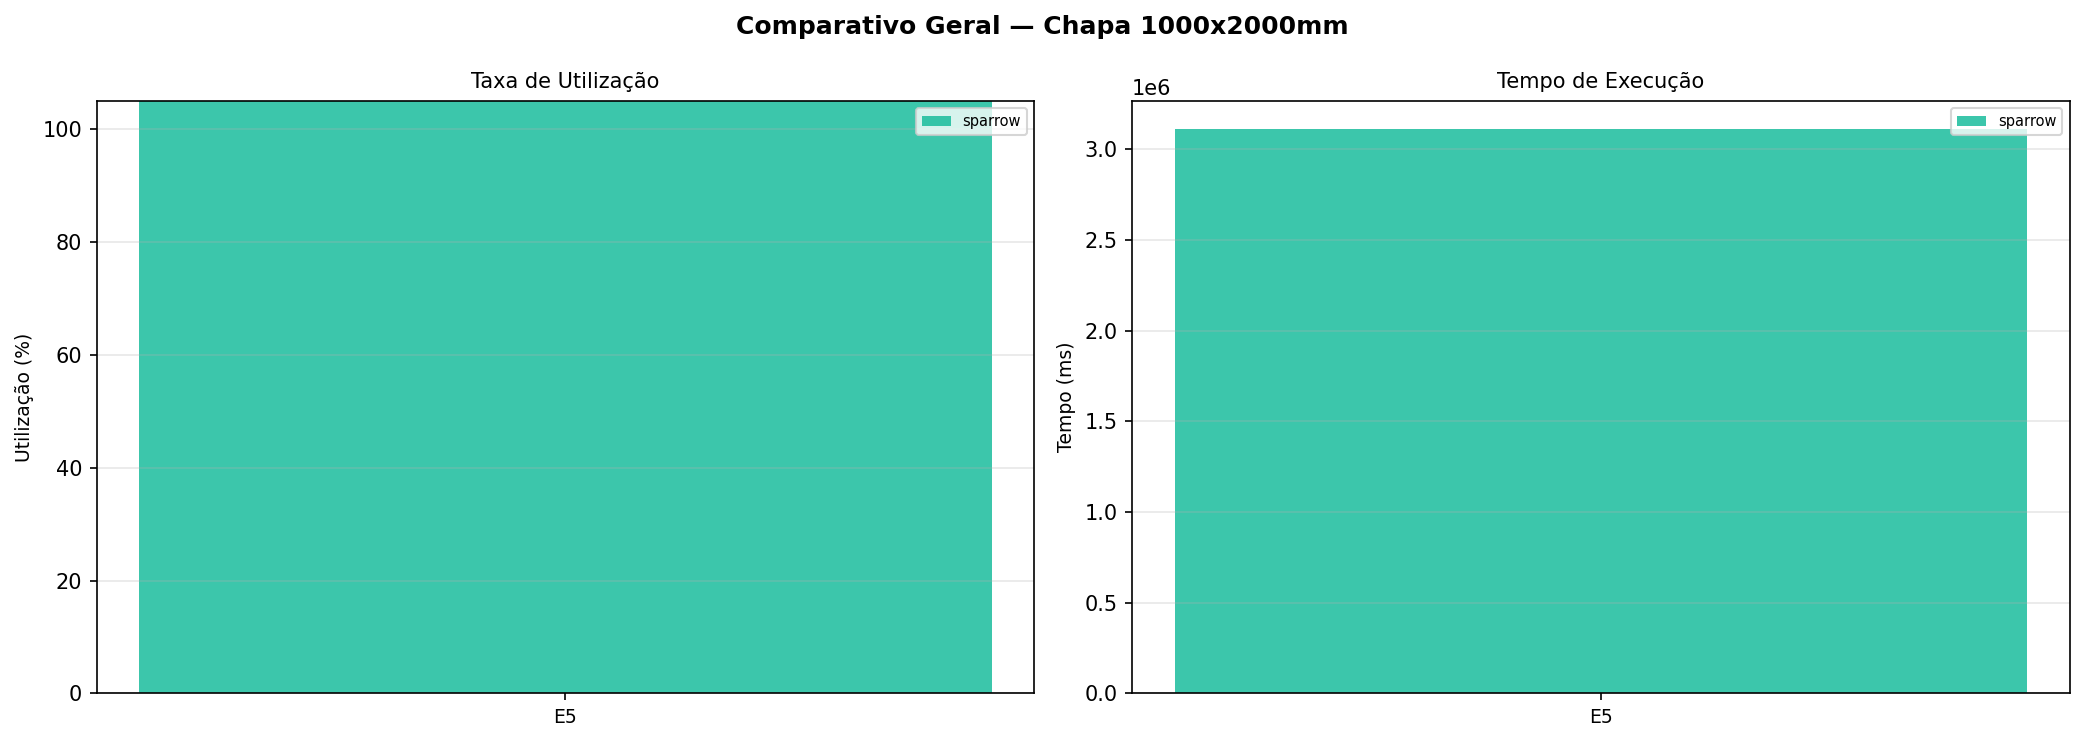
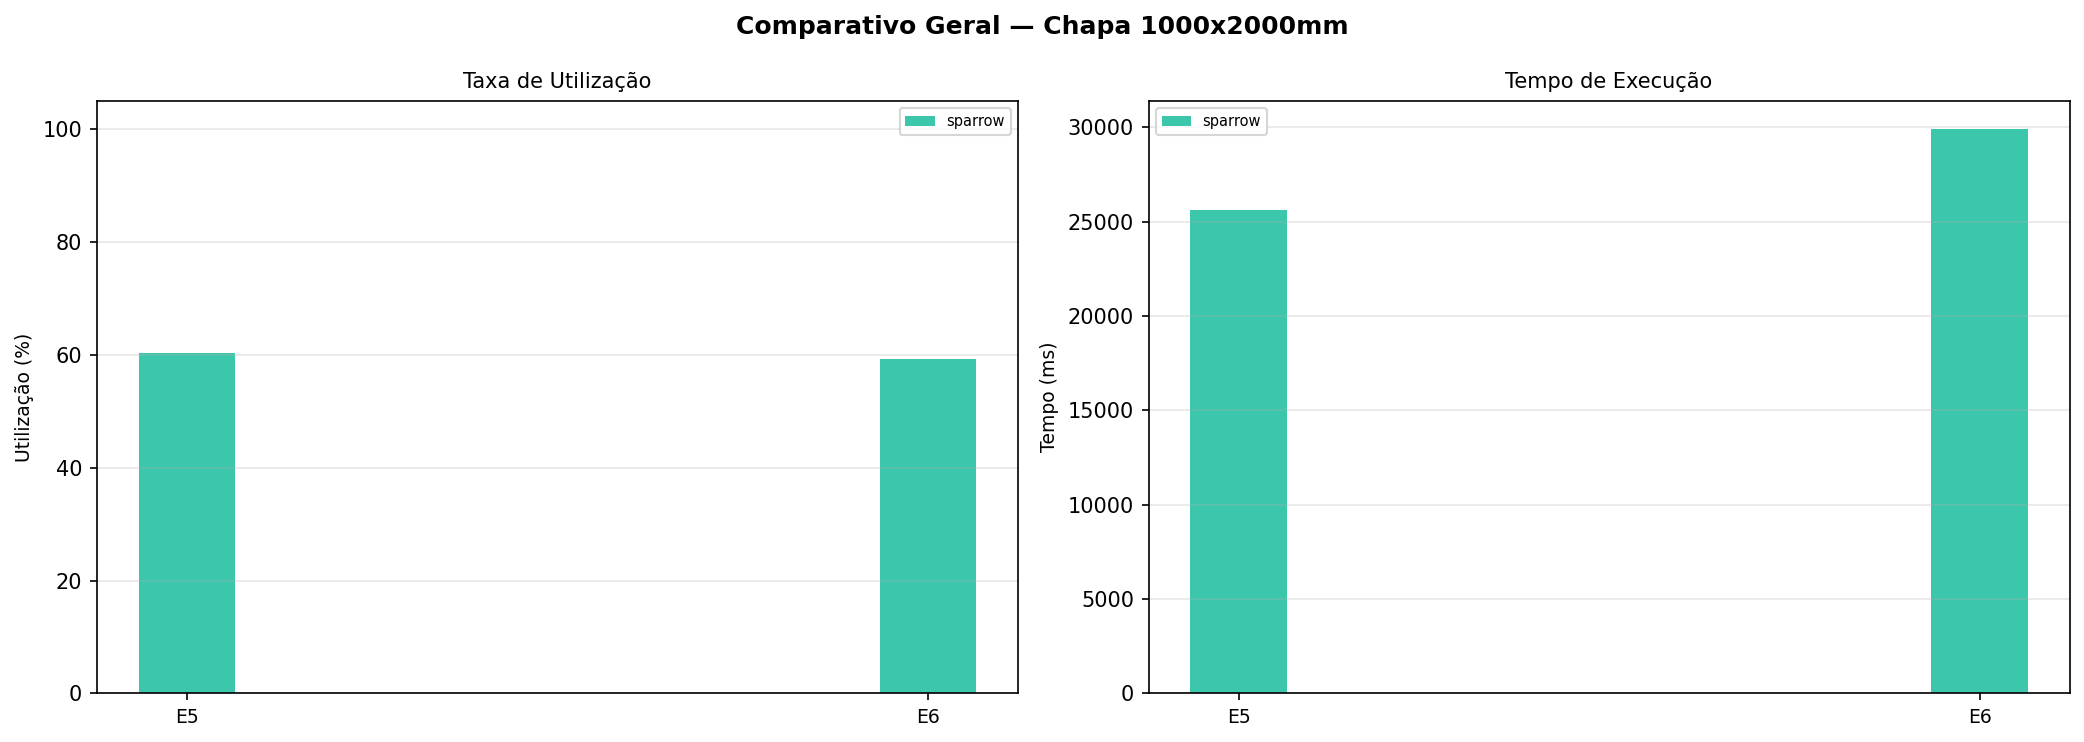
8

diff --git a/caldeiraria_experimentos/algoritmos/sparrow.py b/caldeiraria_experimentos/algoritmos/sparrow.py
@@ -144,10 +144,13 @@ def run(pieces: list[dict], W: float, L_max: Optional[float] = None,
             if not sheet:
                 sheet = [best_sol[0]]  # fallback: 1 peça por chapa
 
-            placed_local = {p.idx for p in sheet}
+            # p.idx é o índice local em rem_pieces (0..n_loc-1)
+            # remaining[p.idx] é o índice global correspondente
+            placed_local_idx = {p.idx for p in sheet}
             all_sheets.append(sheet)
+            # Remove de remaining apenas os índices locais que foram alocados
             remaining = [remaining[i] for i in range(len(remaining))
-                         if i not in placed_local]
+                         if i not in placed_local_idx]
 
         elapsed_ms = (time.perf_counter() - t0) * 1000
         return compute_metrics(all_sheets if all_sheets else [[]],
@@ -634,12 +637,8 @@ def _bl_initial(order, pieces, W, L_max, gap_mm):
                                        p["area"], poly)
         if best_pp is not None:
             placed.append(best_pp)
-        else:
-            # Fallback: força em (0,0) se nenhuma rotação cabe
-            poly = rotate_polygon(p["polygon"], 0)
-            placed.append(PlacedPiece(idx, 0, 0, 0,
-                                      p["tipo"], p["label"],
-                                      p["area"], poly))
+        # Se nenhuma rotação cabe dentro de L_max, simplesmente pula a peça
+        # (será alocada na próxima chapa)
     return placed
 
 